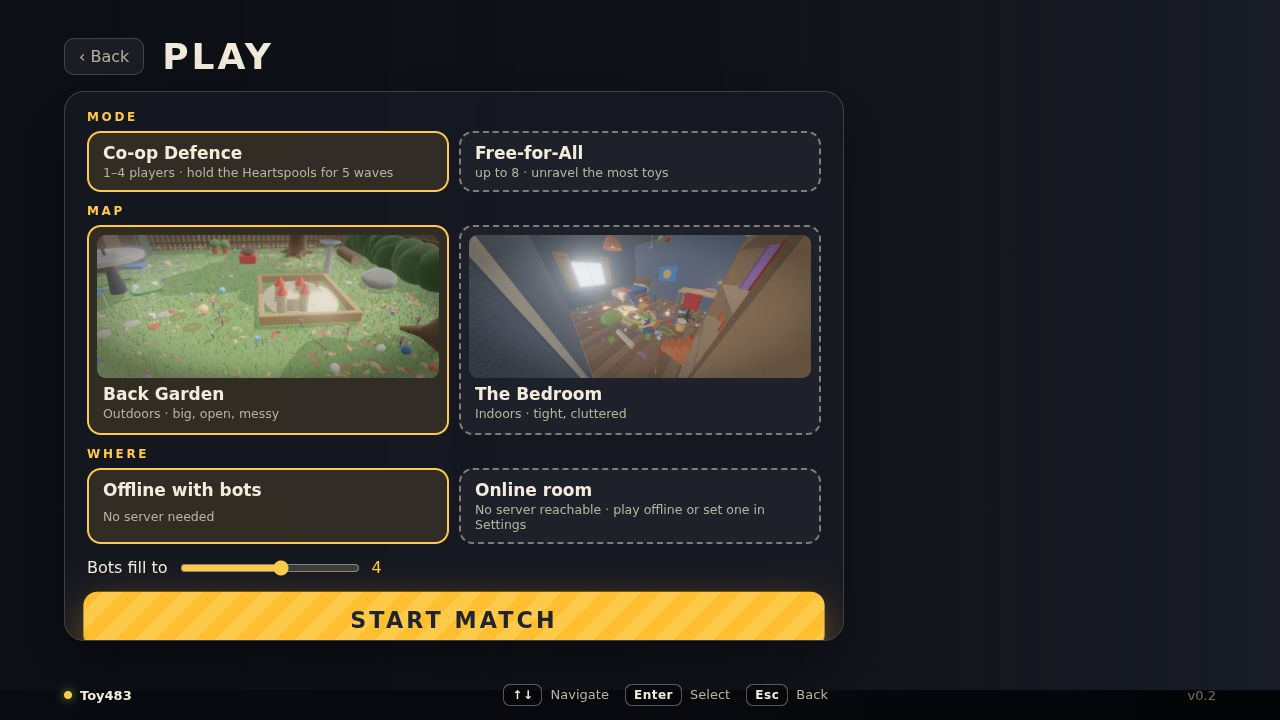
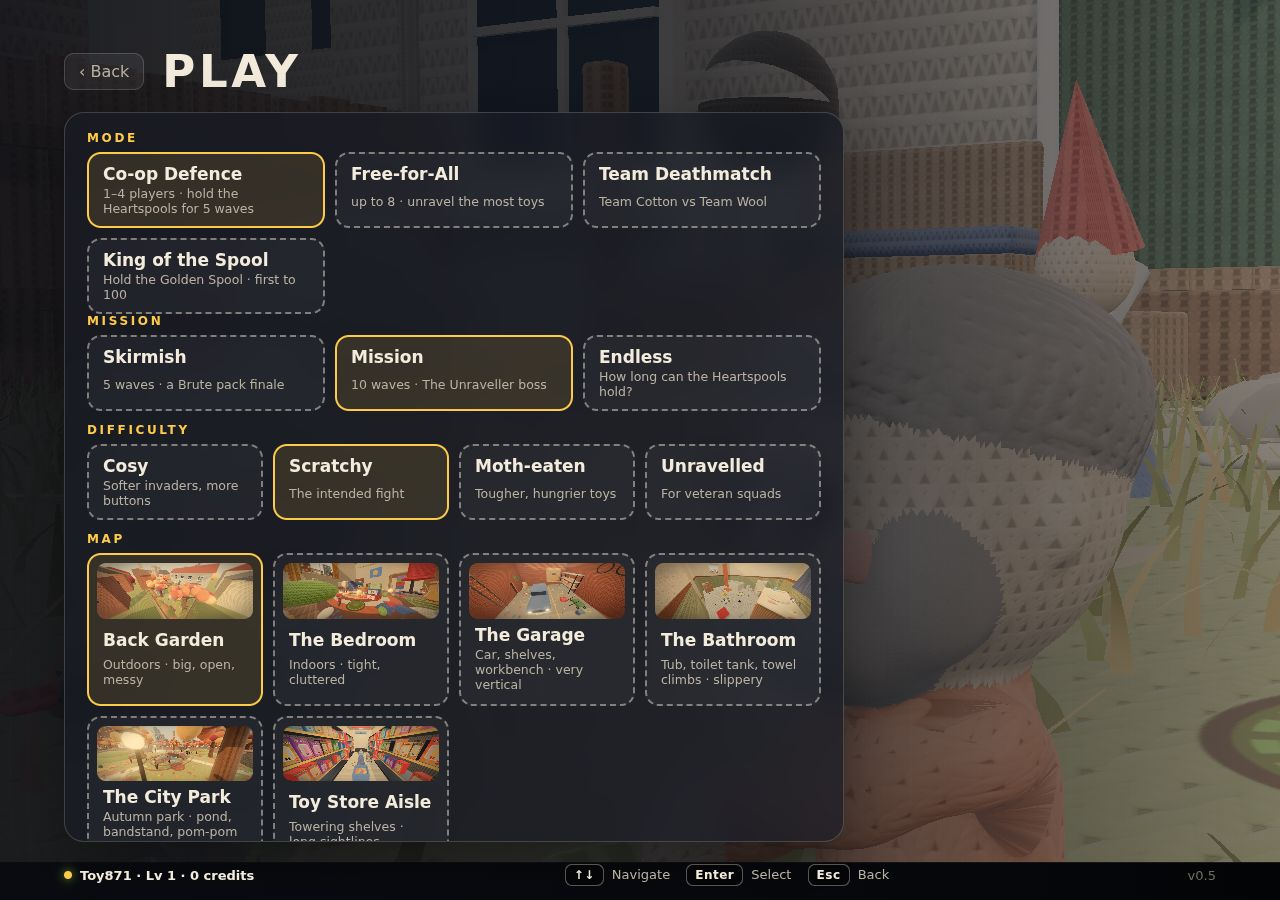
Cozy look, part 4: menu, thumbnails, docs, desktop 0.5.0
The menu cinematic gets a warm background, the news cards announce the
Cosy Knit Update and The City Park, every map thumbnail is re-rendered in
the new look, and the packaging card reads 'Hand-knitted amigurumi'.
README gallery and text describe the stop-motion look (amigurumi toys,
chunky knit, golden light and film grade, set dressing) and the new map;
the roadmap marks them done. Desktop app version 0.5.0 (Windows unpacked
build and portable exe rebuilt and smoke-tested).

Claude-Session: https://claude.ai/code/session_012pq54c9xrq2GrBGpBrhddh

diff --git a/packages/client/index.html b/packages/client/index.html
@@ -72,13 +72,13 @@
         <aside class="news">
           <article class="news-card hot">
             <span class="chip">Big update</span>
-            <h3>The Mass-Knit Army</h3>
-            <p>Chattering teeth, spinning tops, tin soldiers, RC drones, scissor snips, and the boss: The Unraveller.</p>
+            <h3>The Cosy Knit Update</h3>
+            <p>Everything re-knitted: amigurumi toys with bead eyes and rosy cheeks, chunky stitches, golden autumn light and a knitted city outside every window.</p>
           </article>
           <article class="news-card">
-            <span class="chip lime">New</span>
-            <h3>The Garage · split-screen</h3>
-            <p>Climb the car, maze the invaders with brick barricades and zappers, and play two to a couch.</p>
+            <span class="chip lime">New map</span>
+            <h3>The City Park</h3>
+            <p>Pom-pom trees, a knitted pond and bridge, a bandstand perch and a giant turkey parade balloon. Plus King of the Spool and 4-player split-screen.</p>
           </article>
         </aside>
       </section>
@@ -145,7 +145,7 @@
             <div class="brand">STITCHSTRIKE</div>
             <div class="bubble"><canvas id="preview"></canvas><div class="knitting" id="knitting">Knitting…</div><div class="sticker">NEW!</div></div>
             <div class="pname" id="pname"></div>
-            <div class="ptag">Knitted action figure · ages 5 and up</div>
+            <div class="ptag">Hand-knitted amigurumi · ages 5 and up</div>
           </div>
           <div class="panel slots-panel">
             <div class="tabs" id="slot-tabs"></div>
@@ -249,7 +249,7 @@
     <footer id="prompts">
       <span class="who"><span class="dot"></span><span id="who-name"></span></span>
       <span class="keys-hint"><span class="kbd">↑↓</span> Navigate <span class="kbd">Enter</span> Select <span class="kbd">Esc</span> Back</span>
-      <span class="ver" id="version">v0.2</span>
+      <span class="ver" id="version">v0.5</span>
     </footer>
 
     <noscript><p style="padding:24px">STITCHSTRIKE needs JavaScript and WebGL.</p></noscript>

diff --git a/packages/client/src/arena-main.ts b/packages/client/src/arena-main.ts
@@ -802,7 +802,7 @@ function resultsCard(won: boolean | null): void {
     <div class="bubble">
       <div class="sticker">NEW!<br>Collect<br>them all!</div>
       <div class="name">${escapeHtml(name)}</div>
-      <div class="tag">Knitted action figure with ${WEAPONS.length} blasters and real re-stitch action!</div>
+      <div class="tag">Hand-knitted amigurumi with ${WEAPONS.length} blasters and real re-stitch action!</div>
       <div class="stats"><div><b>${session.kills}</b><span>unravelled</span></div><div><b>${session.revives}</b><span>re-stitched</span></div><div><b>${session.waves}</b><span>waves held</span></div></div>
     </div>
     <div class="reward"><span>+${session.xp} XP</span><span>+${session.credits} credits</span><span>Level ${lv.level}</span></div>

diff --git a/packages/client/src/scene/cinematic.ts b/packages/client/src/scene/cinematic.ts
@@ -96,7 +96,7 @@ export async function buildCinematic(
   setWoolLayers(QUALITY_LAYERS[quality === 'low' ? 'low' : 'medium']);
   const world = createWorld('garden');
   const scene = new THREE.Scene();
-  scene.background = new THREE.Color(0xc4d6e6);
+  scene.background = new THREE.Color(0xf2d9b0);
   scene.environment = new THREE.PMREMGenerator(renderer).fromScene(new RoomEnvironment(), 0.04).texture;
   scene.environmentIntensity = 0.5;
 

diff --git a/README.md b/README.md
@@ -1,18 +1,18 @@
 # STITCHSTRIKE
 
-**Soft toys. Hard fights.** An indie first- and third-person shooter that blends wave-based tower defence with intense action, and a love letter to 90s childhoods. You are a 5-inch knitted action figure in a giant house. Everything is wool: the heroes, Baron von Ravel's Mass-Knit Army, and every room. Defend the glowing **Heartspools** in a messy **bedroom**, the **back garden** or the **garage**: alone with bots, online with up to 4 friends, or two to a couch in split-screen. PvP Free-for-All and Team Deathmatch are in too. It's built with Three.js and TypeScript, with server-authoritative netcode, and ships as a desktop app ready for Steam.
+**Soft toys. Hard fights.** An indie first- and third-person shooter that blends wave-based tower defence with intense action, and a love letter to 90s childhoods. You are a little amigurumi toy in a giant, cosy, hand-knitted world. Everything is wool: the toys, Baron von Ravel's Mass-Knit Army, every room, the trees, the water and the city outside the window, all in the warm look of a stop-motion knit film. Defend the glowing **Heartspools** in a messy **bedroom**, the **back garden**, the **garage**, the **bathroom**, a **toy store aisle** or an autumn **city park**: alone with bots, online with up to 4 friends, or up to four to a couch in split-screen. PvP Free-for-All, Team Deathmatch and King of the Spool are in too. It's built with Three.js and TypeScript, with server-authoritative netcode, and ships as a desktop app ready for Steam.
 
 ![Main menu over the live in-engine cinematic](docs/screenshots/menu.jpg)
 
-| The Mass-Knit Army and The Unraveller | Wave 7 in the Garage | Customise your figure (earned, never bought) |
+| The City Park | Wave 5 at the bandstand | The parade balloon |
 |---|---|---|
-| ![](docs/screenshots/army.jpg) | ![](docs/screenshots/garage-combat.jpg) | ![](docs/screenshots/customise.jpg) |
-| **Split-screen on one PC** | **Progress: level, medals, secrets** | **Play: mode, mission, difficulty, map** |
-| ![](docs/screenshots/split-screen.jpg) | ![](docs/screenshots/progress.jpg) | ![](docs/screenshots/menu-play.jpg) |
-| **The Back Garden** | **First person in the yarn grass** | **The messy bedroom** |
-| ![](docs/screenshots/garden-overview.jpg) | ![](docs/screenshots/garden-firstperson.jpg) | ![](docs/screenshots/coop-overview.jpg) |
-| **Grumble, a realistic knitted action figure** | **The knitted cast** | **PvP along the garden fence** |
-| ![](docs/screenshots/figure-grumble.jpg) | ![](docs/screenshots/figure-cast.jpg) | ![](docs/screenshots/garden-pvp.jpg) |
+| ![](docs/screenshots/park.jpg) | ![](docs/screenshots/park-combat.jpg) | ![](docs/screenshots/park-balloon.jpg) |
+| **The cosy bedroom** | **The autumn Back Garden** | **The Bathroom** |
+| ![](docs/screenshots/coop-overview.jpg) | ![](docs/screenshots/garden-overview.jpg) | ![](docs/screenshots/bathroom.jpg) |
+| **The amigurumi cast** | **Grumble, up close** | **The Unraveller and his army** |
+| ![](docs/screenshots/figure-cast.jpg) | ![](docs/screenshots/figure-grumble.jpg) | ![](docs/screenshots/army.jpg) |
+| **Tin Drummer and Jack-in-the-Box** | **Play: mode, mission, difficulty, map** | **Customise your toy (earned, never bought)** |
+| ![](docs/screenshots/recruits.jpg) | ![](docs/screenshots/menu-play.jpg) | ![](docs/screenshots/customise.jpg) |
 
 _Screenshots are headless renders with SwiftShader, so real GPUs look sharper._
 
@@ -118,6 +118,7 @@ Every keyboard action can be rebound in Settings → Key bindings.
   - **The Garage:** a car you crawl under and climb onto, steel shelving, a workbench and pegboard, and a roll-up door stuck half open.
   - **The Bathroom:** a bubble-bath tub, a climbable shower curtain, the toilet tank as a sniper perch, a toilet-roll staircase.
   - **The Toy Store Aisle:** towering shelves of boxed 90s toys, SALE banners to climb, a ball pit, a trolley and the checkout.
+  - **The City Park:** an autumn park of pom-pom trees, a knitted pond under a humped footbridge, a bandstand perch, hills, benches and lamp posts, ringed by a knitted city, with a giant turkey parade balloon overhead.
 - **Modes:** co-op defence (solo with bots, online up to 4, split-screen for 2–4), Free-for-All, Team Deathmatch and **King of the Spool** (two teams fight to stand on a Golden Spool that hops around the map; first to 100).
 - **Accessibility:** colour-blind palettes, subtitles and sound captions, reduced camera shake, full key rebinding.
 - **Steam:** medals unlock Steam achievements and rich presence shows what you're playing (desktop build with steamworks.js; see [docs/DESKTOP_AND_STEAM.md](docs/DESKTOP_AND_STEAM.md)).
@@ -127,12 +128,12 @@ Balance check (full simulated matches, bots only, 2-second build phases): 4 bots
 
 ### URL options
 
-`?mode=coop|pvp|tdm|koth` · `?map=bedroom|garden|garage|bathroom|toystore` · `?waves=5|10|0` · `?difficulty=0..3` · `?wave=N` (solo practice start) · `?room=ABCD` · `?solo=1` · `?bots=0..7` · `?lag=150` · `?name=Pip` · `?quality=low|medium|high` · `?server=ws://host:8787` · `?cam=overview|core|…` (fixed spectator camera) · `?autopilot=1` (headless smoke tests) · `?lod=0` (full-detail invaders at any distance). Split-screen: `split.html?players=2|3|4`.
+`?mode=coop|pvp|tdm|koth` · `?map=bedroom|garden|garage|bathroom|toystore|park` · `?waves=5|10|0` · `?difficulty=0..3` · `?wave=N` (solo practice start) · `?room=ABCD` · `?solo=1` · `?bots=0..7` · `?lag=150` · `?name=Pip` · `?quality=low|medium|high` · `?server=ws://host:8787` · `?cam=overview|core|…` (fixed spectator camera) · `?autopilot=1` (headless smoke tests) · `?lod=0` (full-detail invaders at any distance). Split-screen: `split.html?players=2|3|4`.
 
 Server env: `PORT` (8787), `FILL_BOTS` (4), `FAKE_LAG_MS` (one-way per direction), `STATIC_DIR` (also serve the built client).
 
 ```bash
-pnpm test         # 107 tests: movement, mantle and yarn-swing, weapons, pickups, down/re-stitch, invaders, traps,
+pnpm test         # 110 tests: movement, mantle and yarn-swing, weapons, pickups, down/re-stitch, invaders, traps,
                   # mazing, missions, King of the Spool, protocol, lag comp, prediction, co-op on every map,
                   # progression and weapon parts, settings, SDF mesher, rig
 pnpm typecheck    # tsc -b across all packages
@@ -166,9 +167,17 @@ packages/
 docs/BUILD_PLAN.md       the full design
 ```
 
-### Realistic 3D figures, then wool
+### The cosy stop-motion look
 
-The characters are real 3D sculpts rather than capsules, and there are no model files: each one is sculpted in code (`src/figures/`).
+The game aims for the feel of a hand-made stop-motion knit film:
+- **Amigurumi toys** (`src/figures/amigurumi.ts`): big round crochet heads with bead eyes, felt blush and a stitched smile, chubby sweaters with ribbed turtlenecks, mitten hands and round felt shoes, knitted hair caps, bobble beanies and fuzzy beards. The boss is a felted teddy bear in a top hat.
+- **Chunky knit everywhere:** environment stitches are big and deep, and every yarn colour is softened and warmed by a hand-dyed tone (`yarnDye`).
+- **Golden light and a film grade** (`src/scene/post.ts`): warm split-toning, soft bloom and an optional tilt-shift "miniature focus" that keeps the aiming area sharp.
+- **Set dressing** (`src/scene/cozyDressing.ts`): a knitted city skyline with lit windows outside every window and on every horizon, autumn leaf bunting, knitted pumpkins, shaggy pom-pom trees and glossy knitted water.
+
+### 3D figures, sculpted in code
+
+The characters are real 3D sculpts rather than capsules, and there are no model files: each one is sculpted in code (`src/figures/`). The amigurumi style is the default; the original realistic action-figure sculpt below is still available as `style: 'realistic'`.
 
 1. **Sculpt:** the figure is a signed-distance description of its anatomy.
    - Head: skull, jaw, cheekbones, brow ridge, nose, lips, ears and carved eye sockets.

diff --git a/docs/ROADMAP.md b/docs/ROADMAP.md
@@ -75,7 +75,8 @@ The checklist tracks what is in the game (✅) and what is still ahead (⬜).
   - support: Tin Drummers (speed up everyone nearby)
   - ambushers: Jack-in-the-Boxes (spring out at toys)
   - boss: The Unraveller
-- ✅ Maps at toy scale: The Bedroom, The Back Garden, The Garage, The Bathroom, The Toy Store Aisle
+- ✅ Maps at toy scale: The Bedroom, The Back Garden, The Garage, The Bathroom, The Toy Store Aisle, The City Park
+- ✅ The cosy stop-motion look: amigurumi toys, chunky knit, golden light and a film grade, autumn set dressing, a knitted city outside every window
 - ✅ Verticality: climbable fabric and bark, jump pads, book and crate steps, shelves and roofs, ledge mantle, the yarn-swing grapple
 - ✅ Collectibles: 8 secrets per map (golden thimbles, weapon parts, credit stashes)
 - ✅ Customisation with zero pay-to-win:
